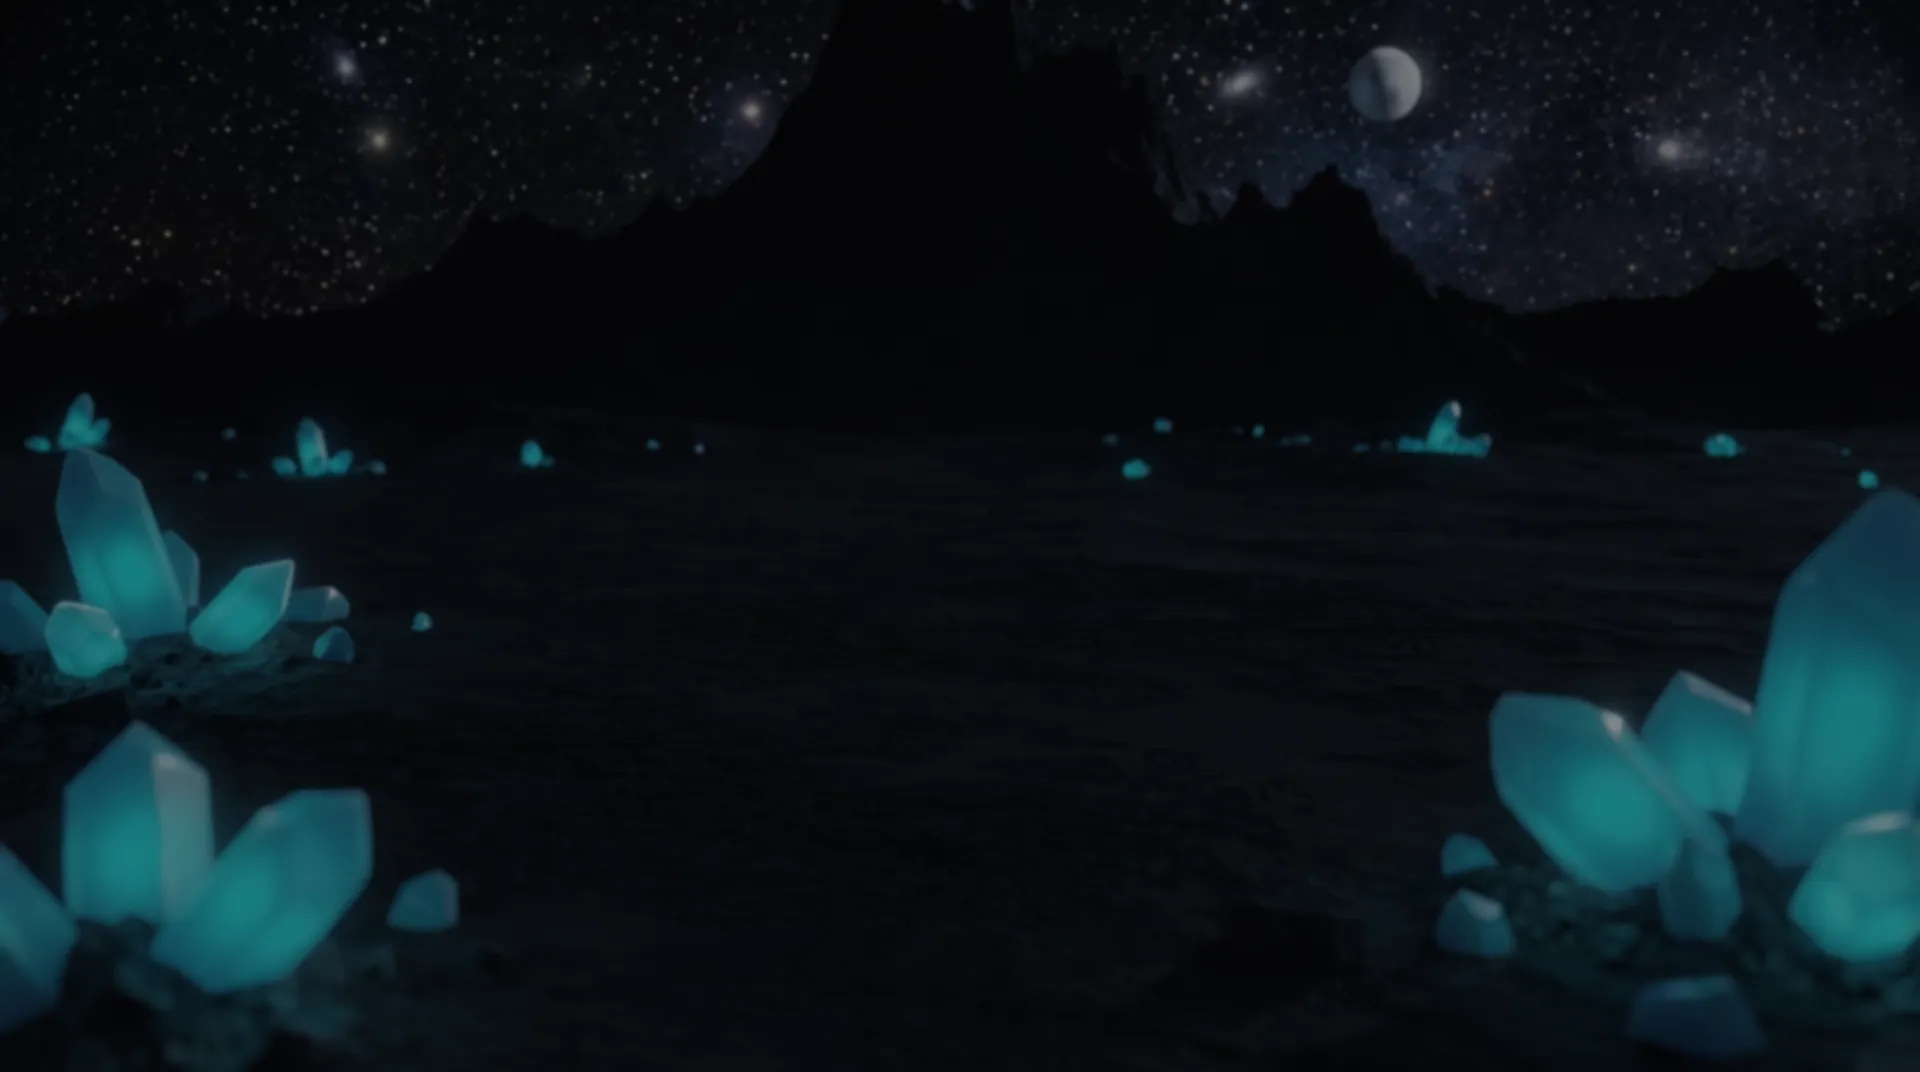
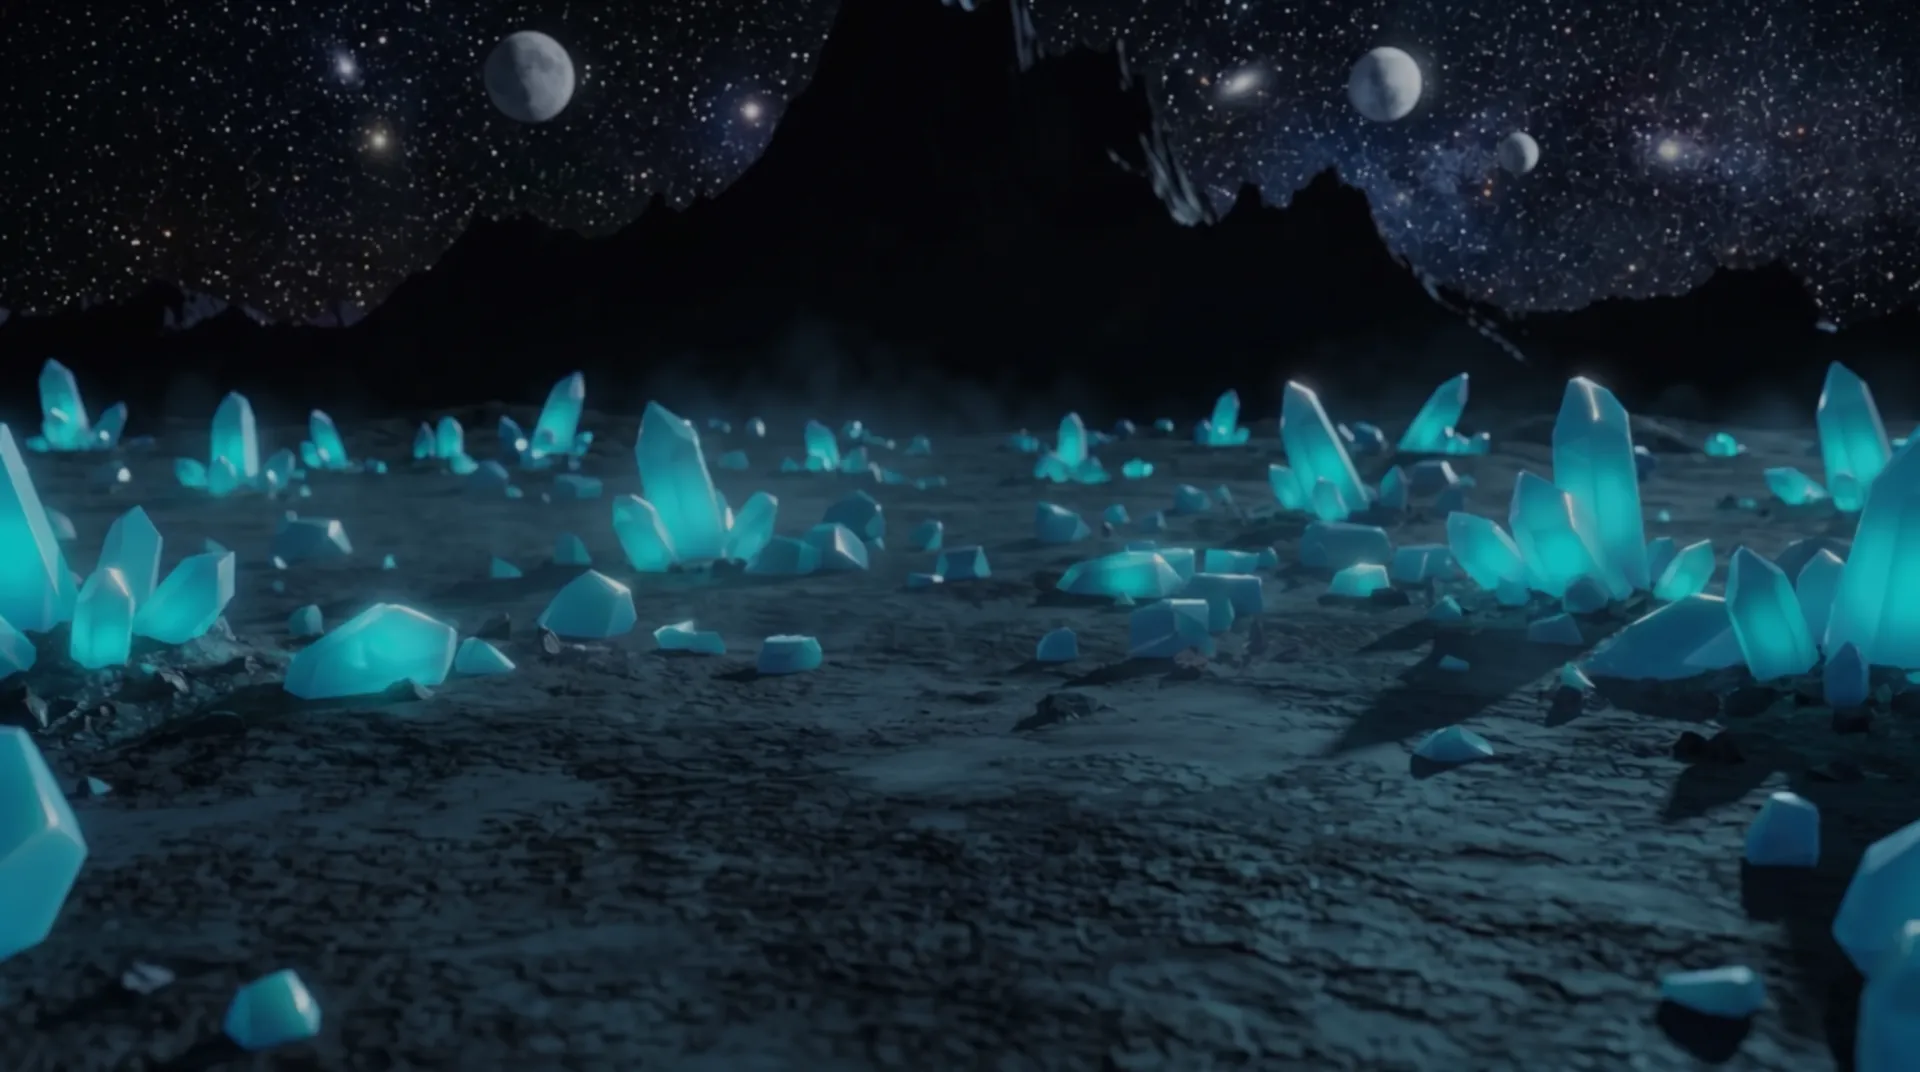
Fondo de Siderax más fiel al original, con cristales más pequeños y más claro
Cristales pequeños en la franja media del suelo, con la parte baja de las
zonas de los presentadores despejada. Menos oscurecido y con un degradado
lateral más suave.

diff --git a/index.html b/index.html
@@ -38,7 +38,7 @@ body.idle { cursor: none; }
   /* Fondo: planeta de origen de Siderax (generado a partir de la referencia), oscuro y suave.
      Los lados se atenúan más para no iluminar a los presentadores. */
   background:
-    linear-gradient(90deg, rgba(10,11,12,.82) 0%, rgba(10,11,12,.55) 24%, rgba(10,11,12,.12) 42%, rgba(10,11,12,.12) 58%, rgba(10,11,12,.55) 76%, rgba(10,11,12,.82) 100%),
+    linear-gradient(90deg, rgba(10,11,12,.55) 0%, rgba(10,11,12,.3) 24%, rgba(10,11,12,.1) 42%, rgba(10,11,12,.1) 58%, rgba(10,11,12,.3) 76%, rgba(10,11,12,.55) 100%),
     url("assets/fondo-siderax.webp") center / cover no-repeat,
     var(--n00);
 }
